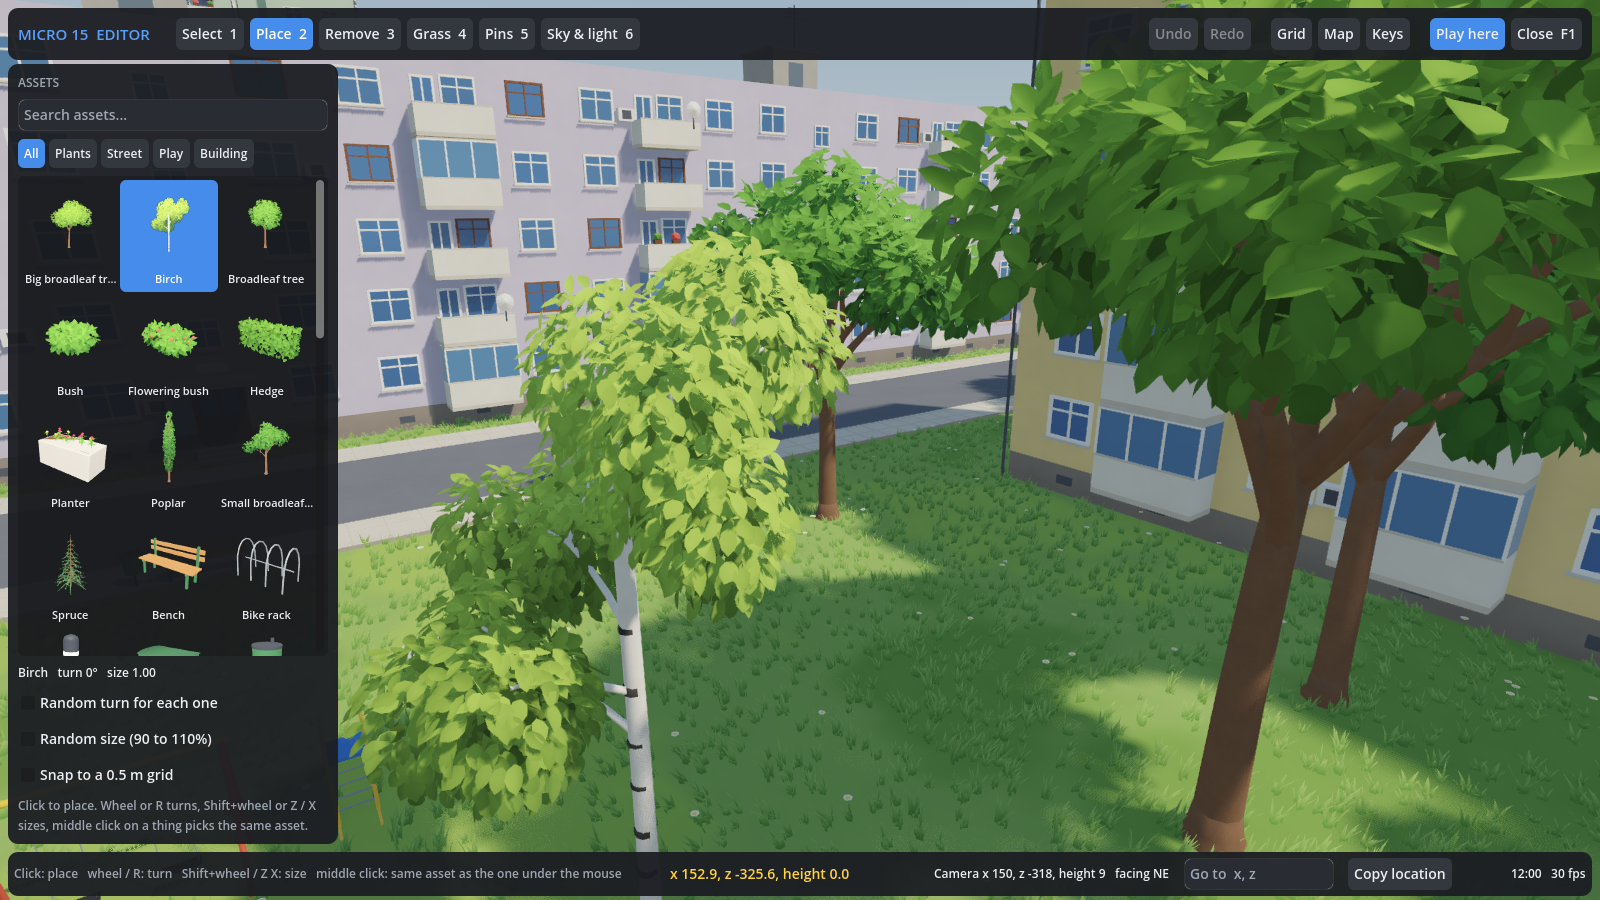
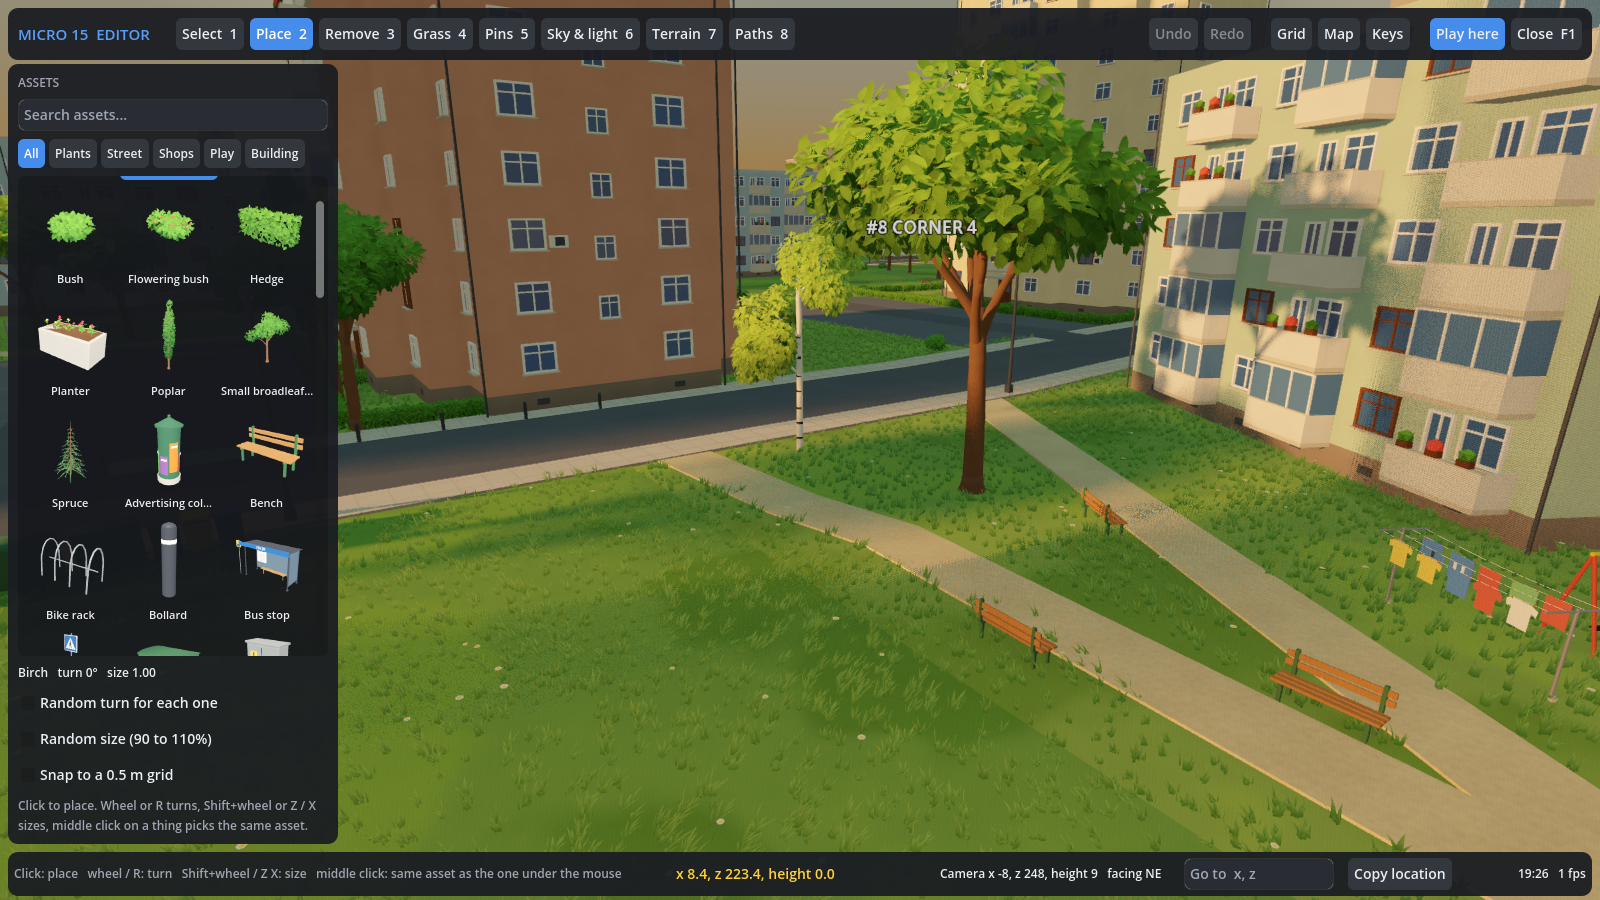
Keep the ground from showing through paths on hills; new screenshots
A path's points now sit on the highest ground within 0.4 m, so the
creases of the 2 m terrain grid no longer poke through trails and
footpaths on a slope. Adds the edge, terrain and paths screenshots the
docs point to, and the assets line-up with the new assets.

Claude-Session: https://claude.ai/code/session_014UpiW8xguoKRYxvFfo6F5h

diff --git a/docs/changelog.md b/docs/changelog.md
@@ -24,6 +24,8 @@
   lighter far versions past 70 m, and small placed things stop drawing in
   the distance. `-- --shots` prints the draw calls and triangles of each
   shot, and takes shot names to render only those.
+* Footpaths and trails no longer let the ground show through them on
+  hillsides.
 
 ## 2026-10-28 (evening): the playable area, shops and a tidy repository
 
